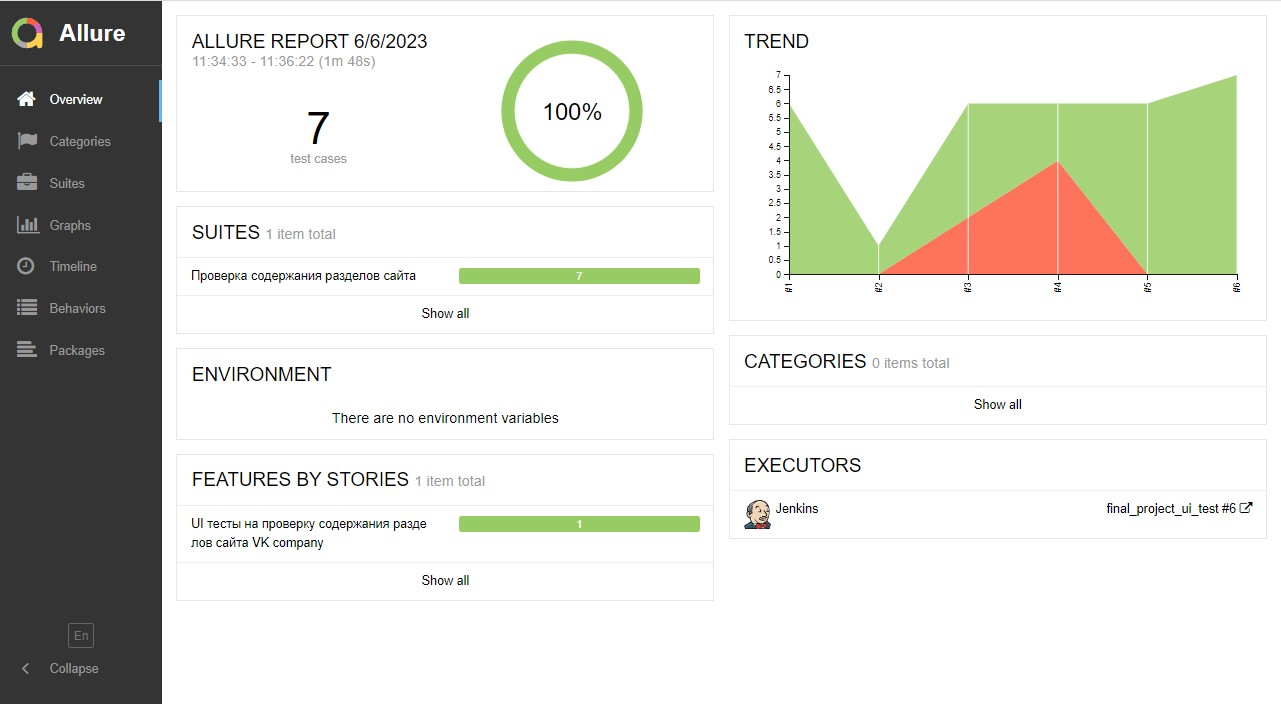
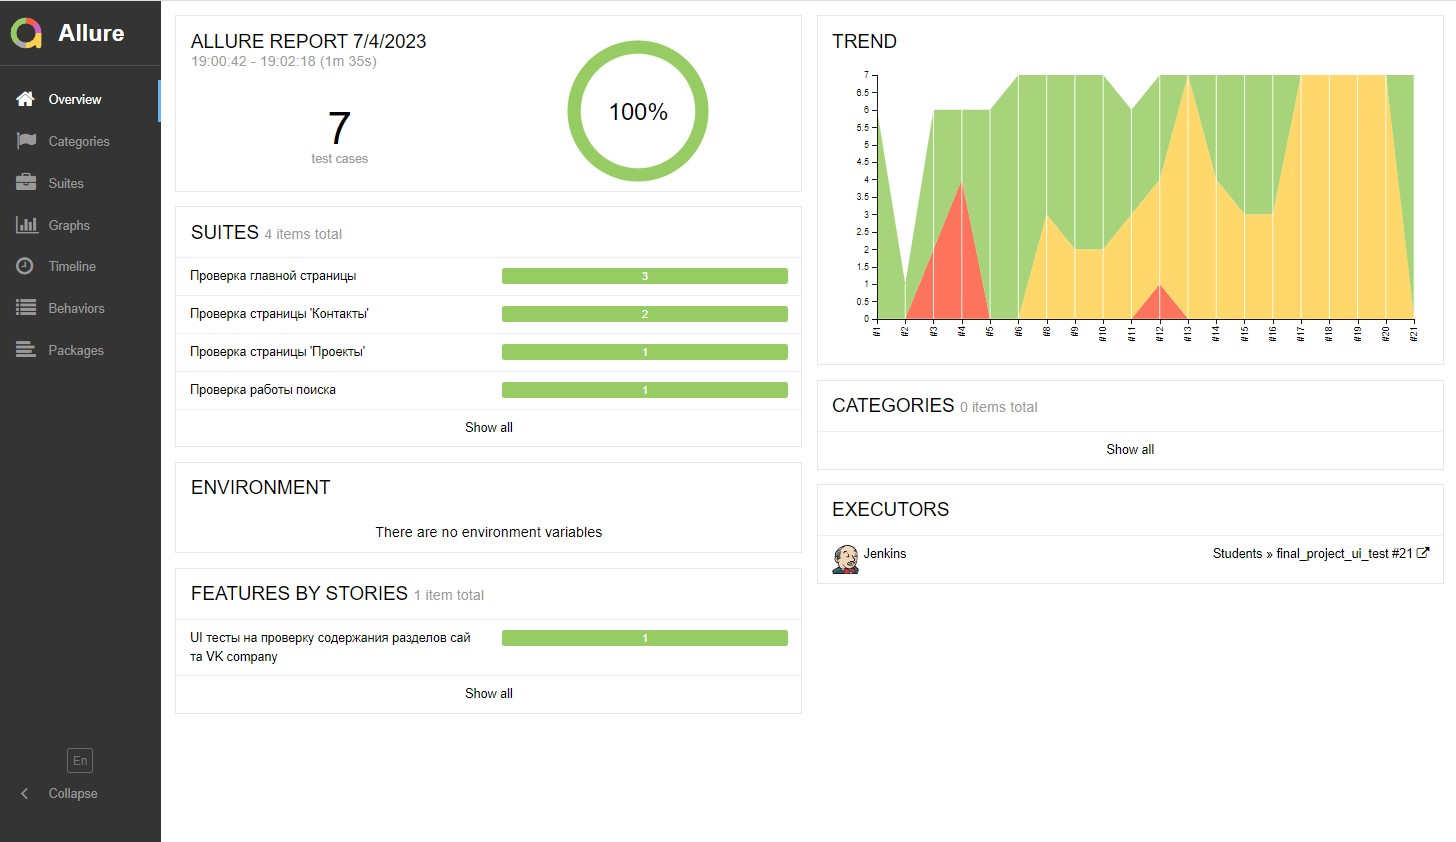
upd allure screenshots

diff --git a/README.md b/README.md
@@ -92,7 +92,7 @@ gradle clean test -Denv=remote
 Из Jenkins возмжно перейти в Allure Report и Allure TestOps.
 
 <a id="allure"></a>
-## <img src="media/logo/Allure_Report.svg" width="25" height="25"/></a> Отчеты в [Allure Report](https://jenkins.autotests.cloud/job/final_project_ui_test/6/allure/)
+## <img src="media/logo/Allure_Report.svg" width="25" height="25"/></a> Отчеты в [Allure Report](https://jenkins.autotests.cloud/job/Students/job/final_project_ui_test/21/allure/)
 
 ### Главная страница
 
